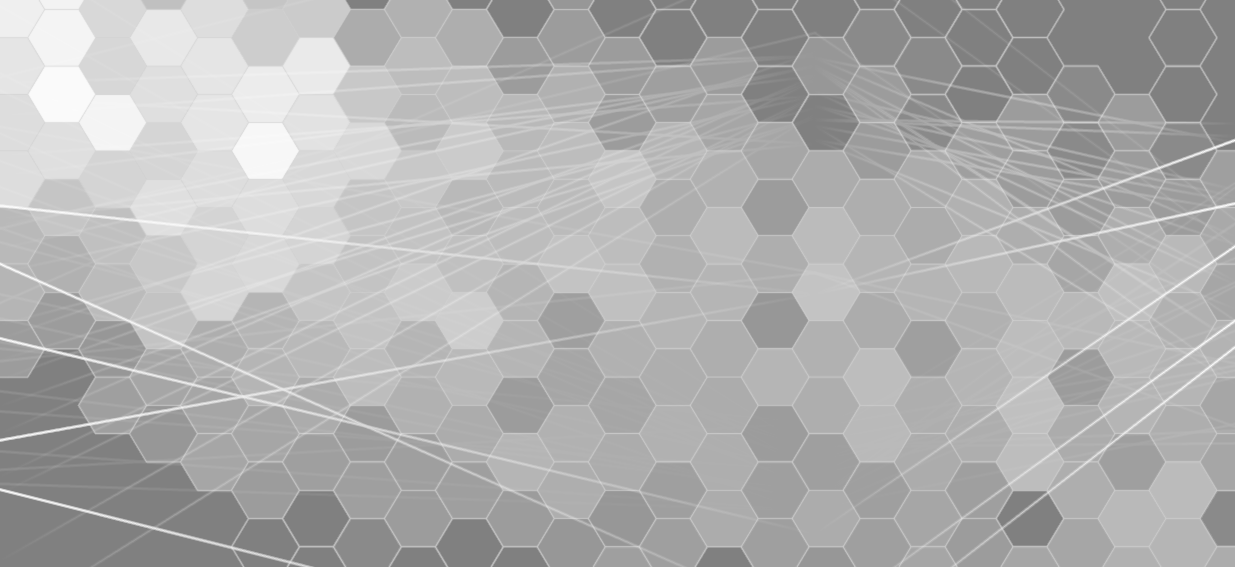
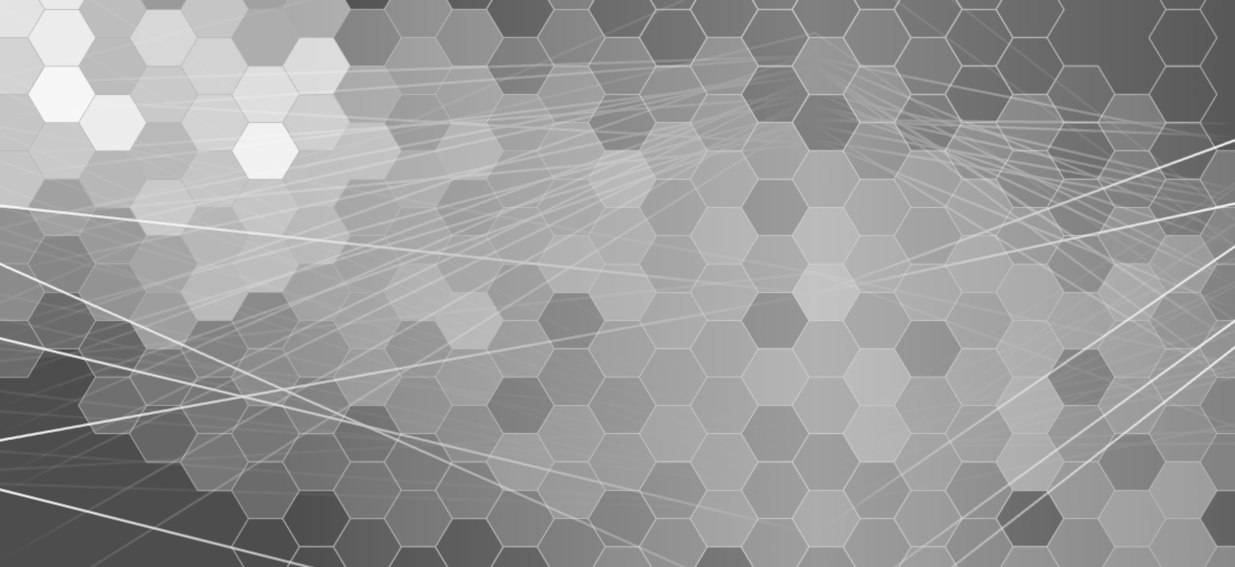
design tweaks

diff --git a/docs/assets/scss/_variables_project.scss b/docs/assets/scss/_variables_project.scss
@@ -12,10 +12,10 @@ html.smooth-scroll {
 
 $primary: #239fcc;
 $secondary: #fff;
-$dark: #433163;
+$dark: #3d5e88;
 $info: #adb5bd;
 $light: #dee2e6;
-$blue: #3d5e88;
+$blue: #2ed9ff;
 
 // Nav bar colors
 
